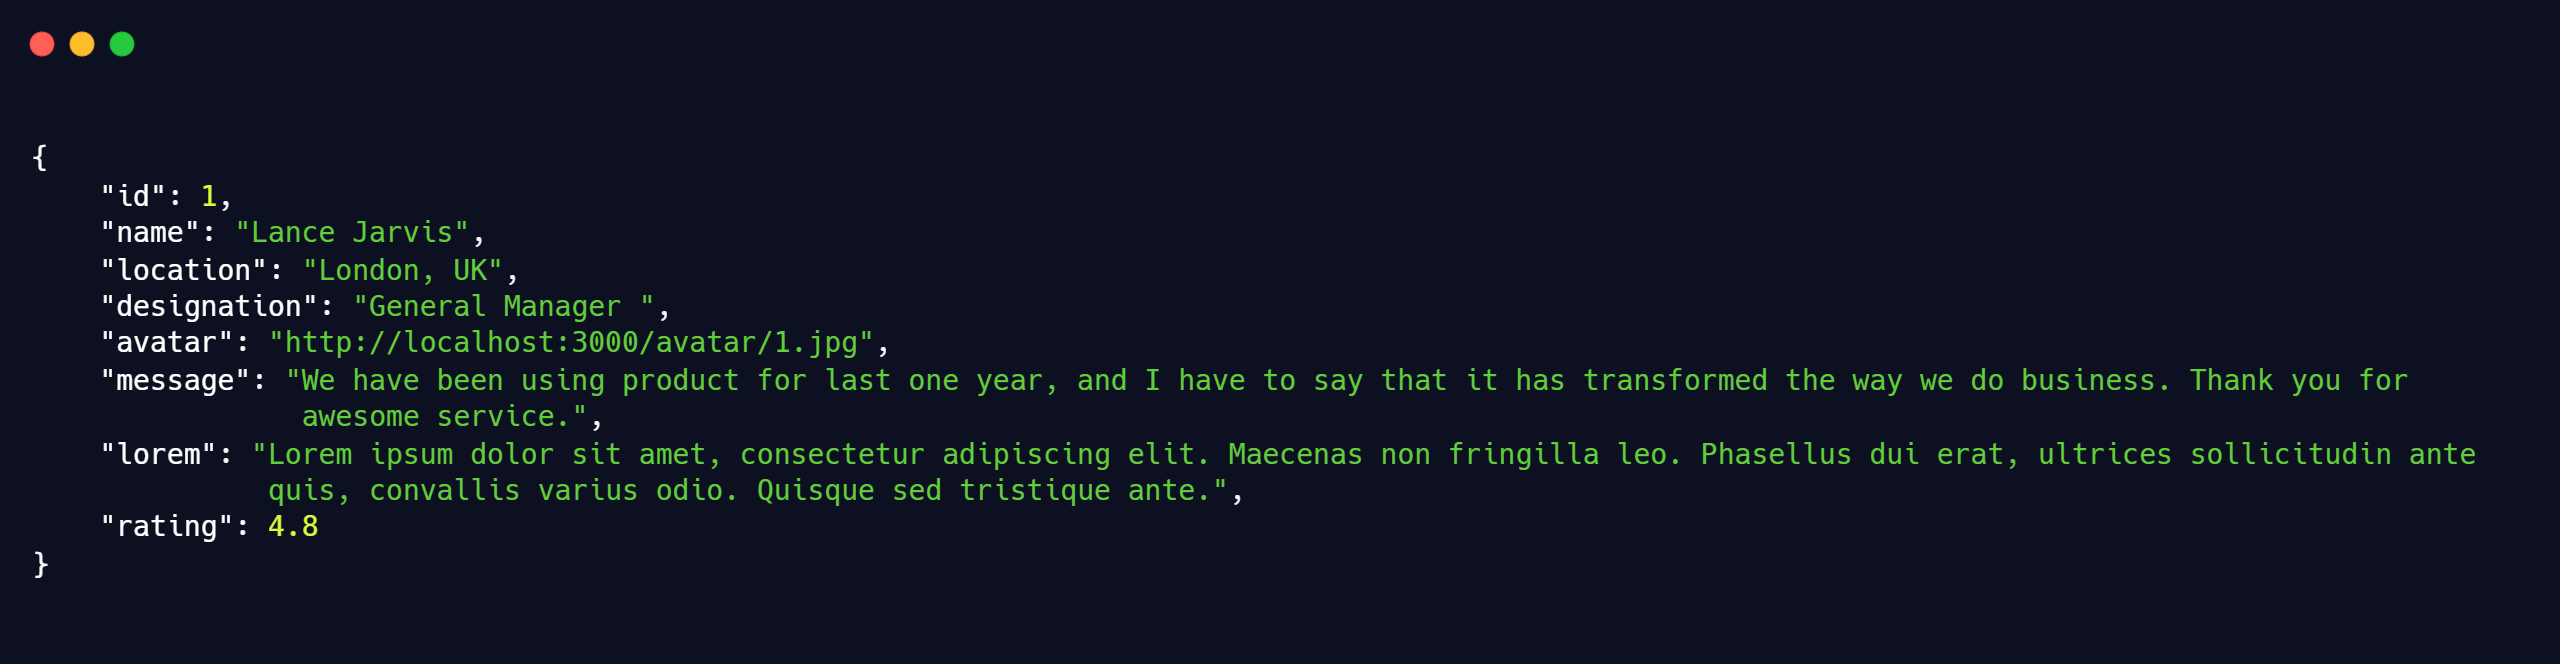
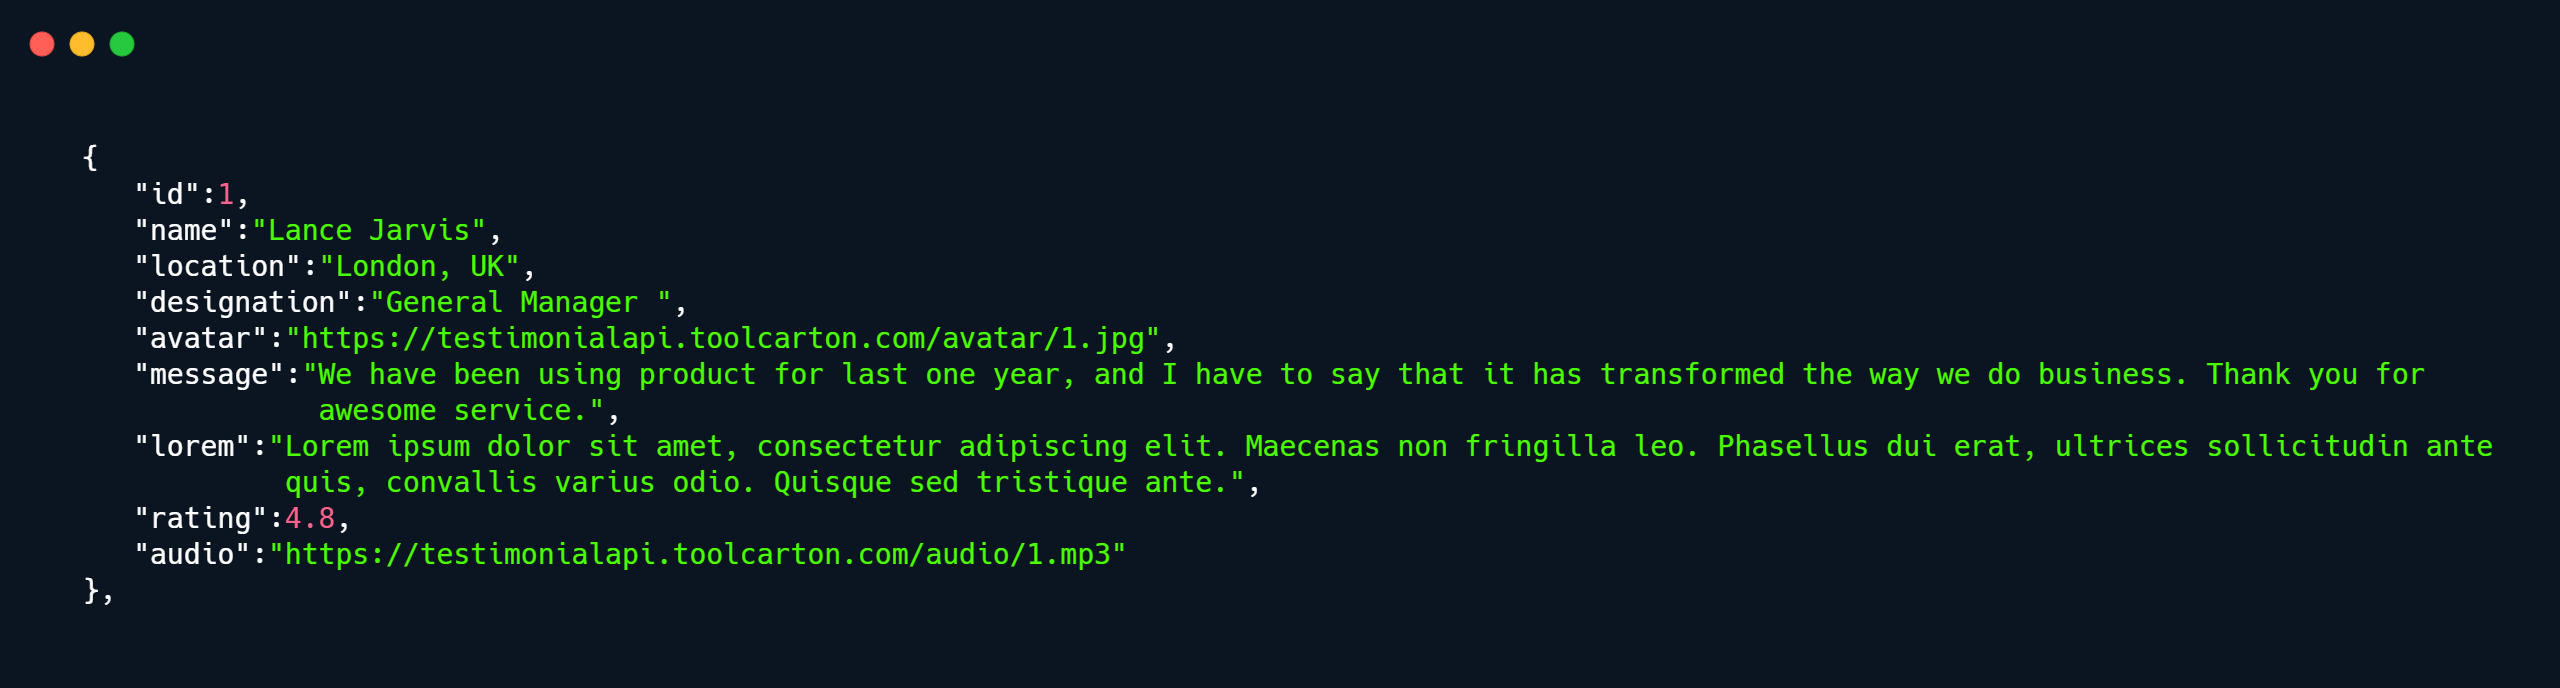
added audio

Changed region(s): [[0.0312, 0.2711, 0.9688, 0.8434]]

diff --git a/data/data..js b/data/data..js
@@ -4,130 +4,130 @@ const testimonailData = [
     name: "Lance Jarvis",
     location: "London, UK",
     designation: "General Manager ",
-    avatar: "http://localhost:3000/avatar/1.jpg",
+    avatar: "https://testimonialapi.toolcarton.com/avatar/1.jpg",
     message:
       "We have been using product for last one year, and I have to say that it has transformed the way we do business. Thank you for awesome service.",
     lorem:
       "Lorem ipsum dolor sit amet, consectetur adipiscing elit. Maecenas non fringilla leo. Phasellus dui erat, ultrices sollicitudin ante quis, convallis varius odio. Quisque sed tristique ante.",
     rating: 4.8,
-    audio: "/audio/1.mp3",
+    audio: "https://testimonialapi.toolcarton.com/audio/1.mp3",
   },
   {
     id: 2,
     name: "Juliet Wright",
     location: "Sweden",
     designation: "Technical Director",
-    avatar: "http://localhost:3000/avatar/2.jpg",
+    avatar: "https://testimonialapi.toolcarton.com/avatar/2.jpg",
     message:
       "It has changed the way I used the website. Product lets you create anything you envision and it does it so easy and flawless. I can't imagine not working with the service.",
     lorem:
       "Lorem ipsum dolor sit amet, consectetur adipiscing elit. Maecenas non fringilla leo. Phasellus dui erat, ultrices sollicitudin ante quis, convallis varius odio. Quisque sed tristique ante.",
     rating: 4.4,
-    audio: "/audio/2.mp3",
+    audio: "https://testimonialapi.toolcarton.com/audio/2.mp3",
   },
   {
     id: 3,
     name: "Michael D.",
     location: "Austin, Texas",
     designation: "Investor",
-    avatar: "http://localhost:3000/avatar/3.jpg",
+    avatar: "https://testimonialapi.toolcarton.com/avatar/3.jpg",
     message:
       "Insights from service drove 30% lift in our conversions, this product service is essential for your company growth strategy.",
     lorem:
       "Lorem ipsum dolor sit amet, consectetur adipiscing elit. Maecenas non fringilla leo. Phasellus dui erat, ultrices sollicitudin ante quis, convallis varius odio. Quisque sed tristique ante.",
     rating: 4.5,
-    audio: "/audio/3.mp3",
+    audio: "https://testimonialapi.toolcarton.com/audio/3.mp3",
   },
   {
     id: 4,
     name: "Kylie Lutz",
     location: "Paris, France",
     designation: "Freelancer",
-    avatar: "http://localhost:3000/avatar/4.jpg",
+    avatar: "https://testimonialapi.toolcarton.com/avatar/4.jpg",
     message:
       "The company really helped with my personal branding - everything from conception to execution was amazing and super professional. Looking forwards for upgradation.",
     lorem:
       "Lorem ipsum dolor sit amet, consectetur adipiscing elit. Maecenas non fringilla leo. Phasellus dui erat, ultrices sollicitudin ante quis, convallis varius odio. Quisque sed tristique ante.",
     rating: 5,
-    audio: "/audio/4.mp3",
+    audio: "https://testimonialapi.toolcarton.com/audio/4.mp3",
   },
   {
     id: 5,
     name: "Mark Twin",
     location: "Berlin, Germany",
     designation: "Developer",
-    avatar: "http://localhost:3000/avatar/5.jpg",
+    avatar: "https://testimonialapi.toolcarton.com/avatar/5.jpg",
     message:
       "Best company I have ever dealt with online! Quick delivery and excellent customer service. Will definetly upgrade the service.",
     lorem:
       "Lorem ipsum dolor sit amet, consectetur adipiscing elit. Maecenas non fringilla leo. Phasellus dui erat, ultrices sollicitudin ante quis, convallis varius odio. Quisque sed tristique ante.",
     rating: 4.5,
-    audio: "/audio/5.mp3",
+    audio: "https://testimonialapi.toolcarton.com/audio/5.mp3",
   },
   {
     id: 6,
     name: "Anne",
     location: "New York, USA",
     designation: "Content Writer & Artist",
-    avatar: "http://localhost:3000/avatar/6.jpg",
+    avatar: "https://testimonialapi.toolcarton.com/avatar/6.jpg",
     message:
       "These folks are my go-to for any design or branding services. Excellent communication and I feel like I'm always a priority for them.",
     lorem:
       "Lorem ipsum dolor sit amet, consectetur adipiscing elit. Maecenas non fringilla leo. Phasellus dui erat, ultrices sollicitudin ante quis, convallis varius odio. Quisque sed tristique ante.",
     rating: 4.7,
-    audio: "/audio/6.mp3",
+    audio: "https://testimonialapi.toolcarton.com/audio/6.mp3",
   },
   {
     id: 7,
     name: "Bryan S.",
     location: "Sydney, Australia",
     designation: "Manager",
-    avatar: "http://localhost:3000/avatar/7.jpg",
+    avatar: "https://testimonialapi.toolcarton.com/avatar/7.jpg",
     message:
       "Love your stuff, the quality has been incredible year after year. I tell everyone I know that they have to try the product. Thank you to the team the whole team.",
     lorem:
       "Lorem ipsum dolor sit amet, consectetur adipiscing elit. Maecenas non fringilla leo. Phasellus dui erat, ultrices sollicitudin ante quis, convallis varius odio. Quisque sed tristique ante.",
     rating: 4.7,
-    audio: "/audio/7.mp3",
+    audio: "https://testimonialapi.toolcarton.com/audio/7.mp3",
   },
   {
     id: 8,
     name: "Kamren Hays",
     location: "Florida, USA",
     designation: "Marketing Head",
-    avatar: "http://localhost:3000/avatar/8.jpg",
+    avatar: "https://testimonialapi.toolcarton.com/avatar/8.jpg",
     message:
       "Product bring 10x multiplier in terms of both ease and spread of use. I'm able to quickly and easily execute on my marketing strategies. That the fundamental difference from other services.",
     lorem:
       "Lorem ipsum dolor sit amet, consectetur adipiscing elit. Maecenas non fringilla leo. Phasellus dui erat, ultrices sollicitudin ante quis, convallis varius odio. Quisque sed tristique ante.",
     rating: 4.8,
-    audio: "/audio/8.mp3",
+    audio: "https://testimonialapi.toolcarton.com/audio/8.mp3",
   },
   {
     id: 9,
     name: "Diane Smith",
     location: "New York, USA",
     designation: "Sales Head",
-    avatar: "http://localhost:3000/avatar/9.jpg",
+    avatar: "https://testimonialapi.toolcarton.com/avatar/9.jpg",
     message:
       "Team offers a powerful suite of tools that every client must have. And if you get stuck their support team will help out. Its is fast, reliable and has no complications at all.",
     lorem:
       "Lorem ipsum dolor sit amet, consectetur adipiscing elit. Maecenas non fringilla leo. Phasellus dui erat, ultrices sollicitudin ante quis, convallis varius odio. Quisque sed tristique ante.",
     rating: 4.1,
-    audio: "/audio/9.mp3",
+    audio: "https://testimonialapi.toolcarton.com/audio/9.mp3",
   },
   {
     id: 10,
     name: "Mikayla Mccullough",
     location: "Madrid, Spain",
     designation: "Designer",
-    avatar: "http://localhost:3000/avatar/10.jpg",
+    avatar: "https://testimonialapi.toolcarton.com/avatar/10.jpg",
     message:
       "The vibe, level of inquiry, feedback and traffic at our product services and newly designed booth at a recent conference was very positive.",
     lorem:
       "Lorem ipsum dolor sit amet, consectetur adipiscing elit. Maecenas non fringilla leo. Phasellus dui erat, ultrices sollicitudin ante quis, convallis varius odio. Quisque sed tristique ante.",
     rating: 4.9,
-    audio: "/audio/10.mp3",
+    audio: "https://testimonialapi.toolcarton.com/audio/10.mp3",
   },
 ];
 

diff --git a/components/Service.js b/components/Service.js
@@ -66,7 +66,7 @@ function Service() {
                   24/7 uptime{" "}
                 </h1>
                 <p className="leading-relaxed">
-                  Fast response time in your developement phases.
+                  Fast response time in your testing and developement phases.
                 </p>
               </div>
             </div>
